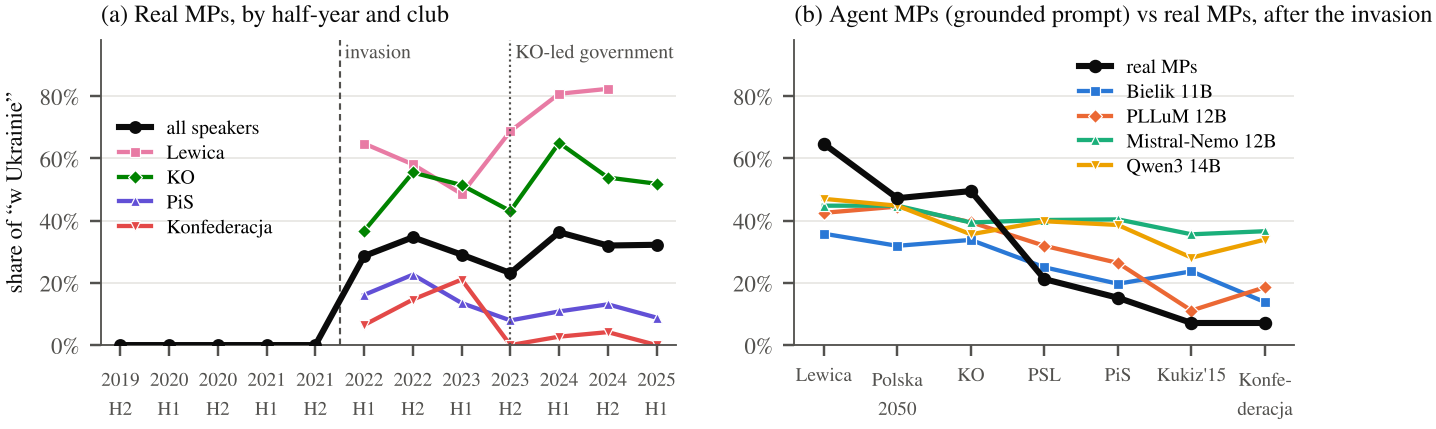
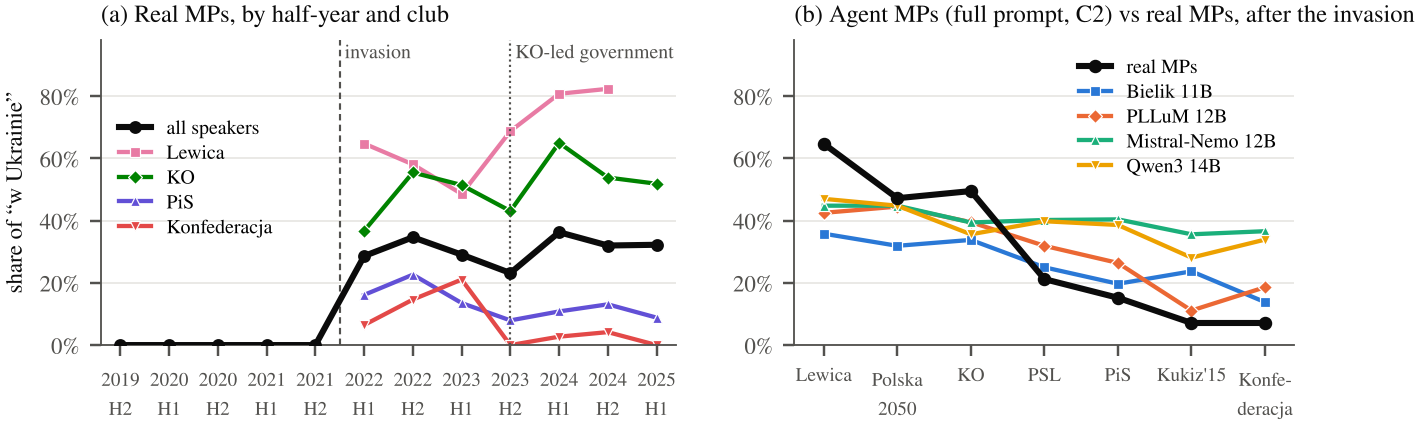
Figure panel (b) label: full prompt (C2)

diff --git a/src/figure.py b/src/figure.py
@@ -62,7 +62,7 @@ for m, col in MCOL.items():
            markeredgecolor='white', markeredgewidth=0.4)
 b.set_xticks(list(xs)); b.set_xticklabels(labels, fontsize=6.3)
 b.set_xlim(-0.4, len(order) - 0.6)
-b.set_title('(b) Agent MPs (grounded prompt) vs real MPs, after the invasion', loc='left', fontsize=8, color=INK)
+b.set_title('(b) Agent MPs (full prompt, C2) vs real MPs, after the invasion', loc='left', fontsize=8, color=INK)
 b.legend(loc='upper right', fontsize=6.5, handlelength=1.6, labelspacing=0.25, ncol=1)
 
 fig.savefig(OUT / 'fig1.pdf', bbox_inches='tight', pad_inches=0.02)
